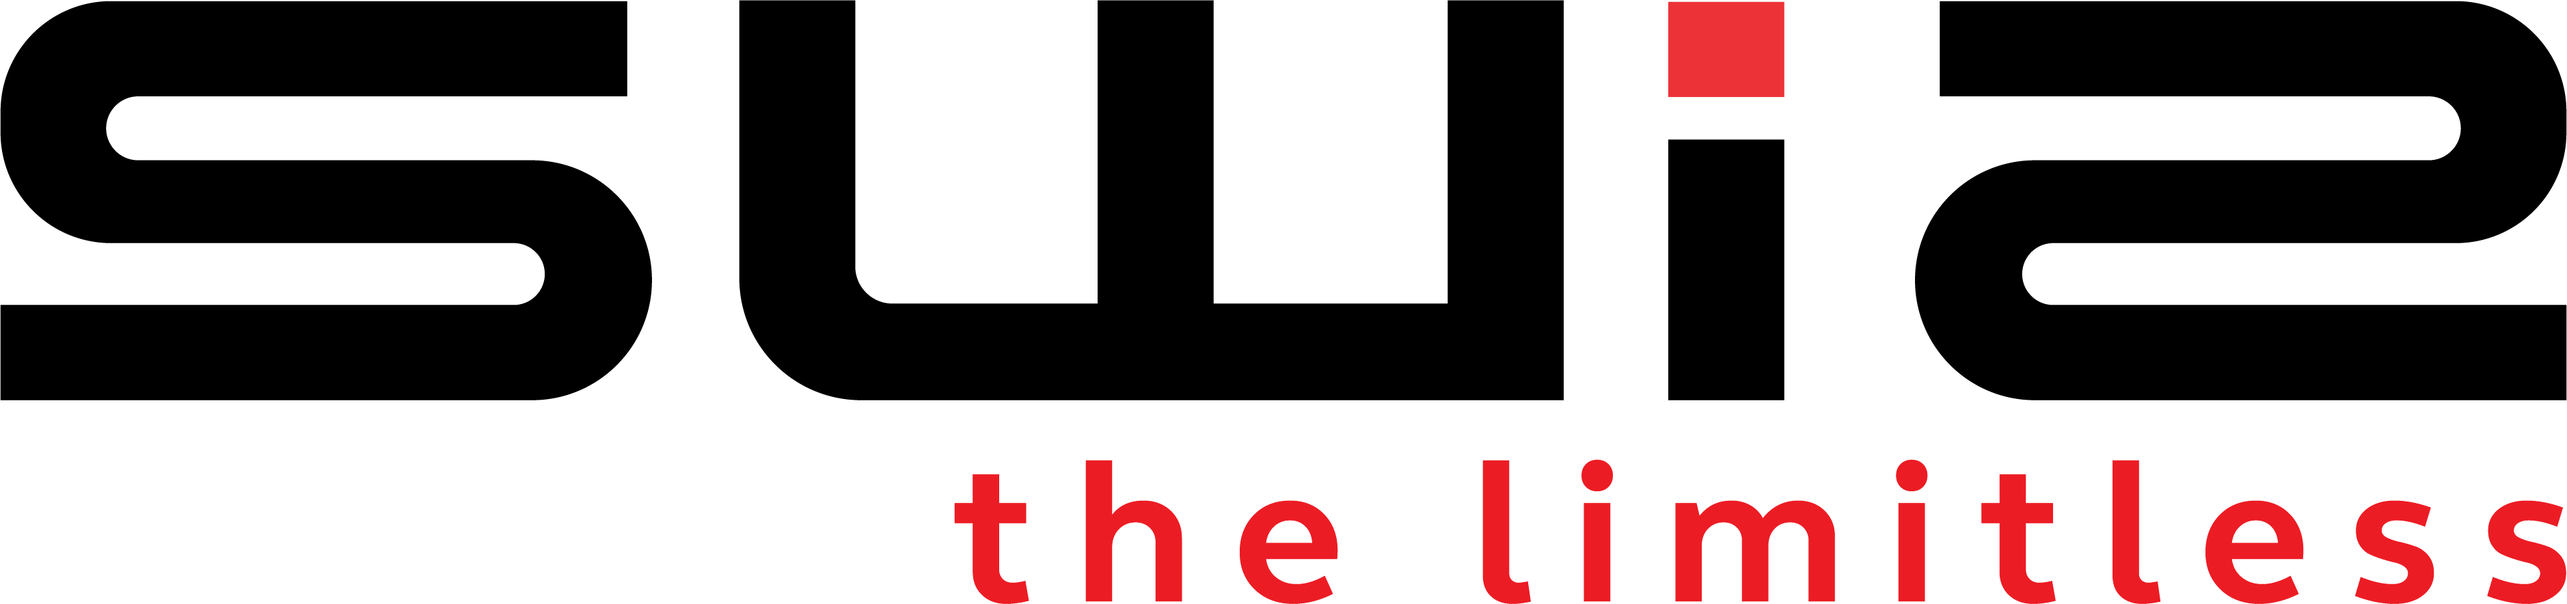
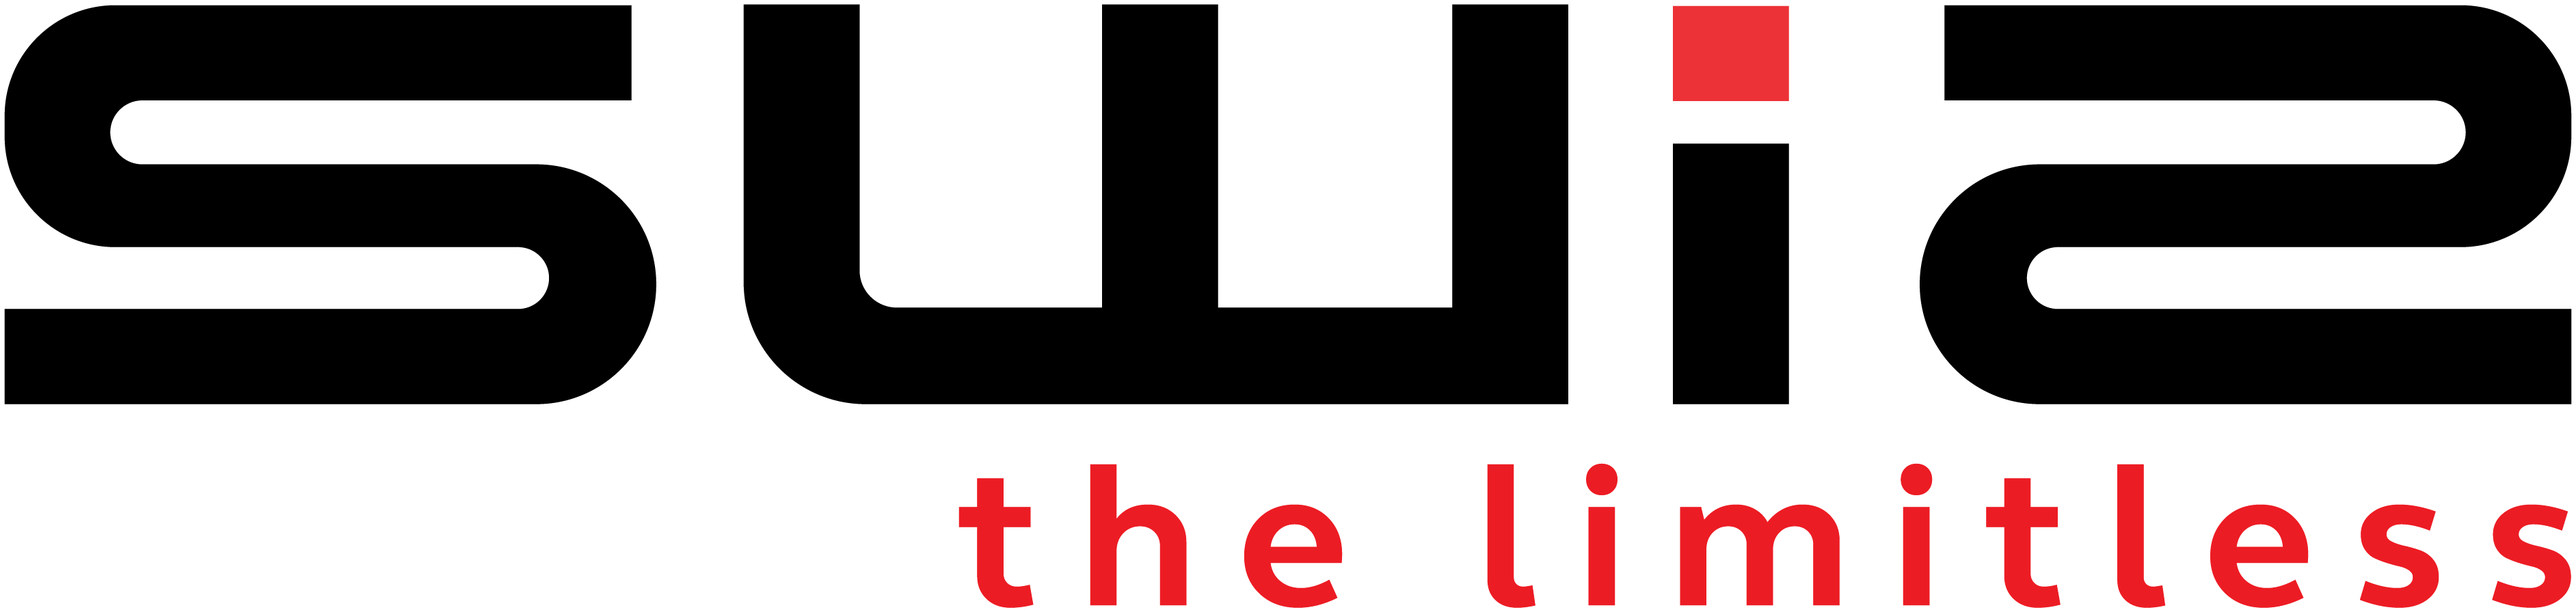
.

diff --git a/resources/views/layouts/web.blade.php b/resources/views/layouts/web.blade.php
@@ -85,7 +85,7 @@
       <div class="row">
         <div class="col-xs-12 col-lg-2 col-sm-12 col-md-3 logo-holder"> 
           <!-- ============================================================= LOGO ============================================================= -->
-          <div class="logo"> <a href="{{ url('/') }}"> <img src="{{asset('assets/img/swiz.png')}}" alt="logo" width="130px"> </a> </div>
+          <div class="logo"> <a href="{{ url('/') }}"> <img src="{{asset('assets/img/swiz_small.png')}}" alt="logo" width="130px"> </a> </div>
           <!-- /.logo --> 
           <!-- ============================================================= LOGO : END ============================================================= --> </div>
         <!-- /.logo-holder -->

diff --git a/resources/views/layouts/user_layout.blade.php b/resources/views/layouts/user_layout.blade.php
@@ -69,9 +69,9 @@
 		</div> -->
 
 		<nav hidden class="nav-white nav-transparent" style="top: 10px !important;">
-			<div class="nav-header">
+			<div class="nav-header" style="height: 60px;">
 				<a href="{{url('/')}}" class="brand">
-					<img src="{{asset('assets/img/swiz.png')}}" alt="" style="width:68%"/>
+					<img src="{{asset('assets/img/swiz_small.png')}}" alt="" style="width:68%"/>
 				</a>
 				<button class="toggle-bar">
 					<span class="ti-menu"></span>

diff --git a/resources/views/include/user_header.blade.php b/resources/views/include/user_header.blade.php
@@ -2,7 +2,7 @@
 		<nav hidden class="nav-white nav-transparent dark-overlay">
 			<div class="nav-header" style="width: 8%;background: #ffe4c400;">
 				<a href="{{url('/')}}" class="brand">
-					<img src="{{asset('assets/img/swiz.png')}}" alt="swiz logo" style="width:80%" />
+					<img src="{{asset('assets/img/swiz_small.png')}}" alt="swiz logo" style="width:80%" />
 				</a>
 				<button class="toggle-bar">
 					<span class="ti-menu"></span>
